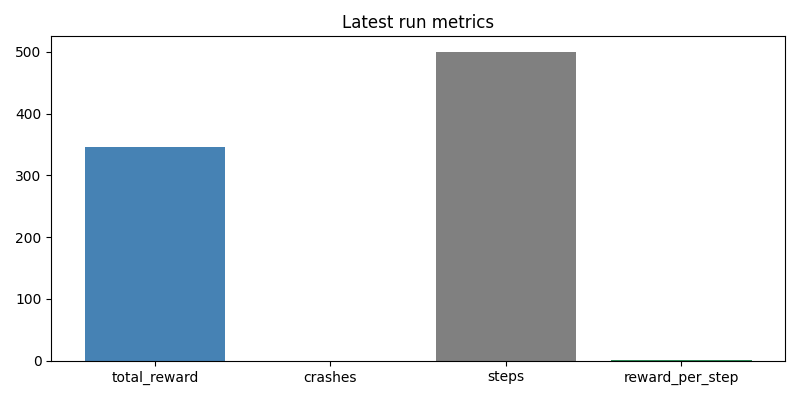
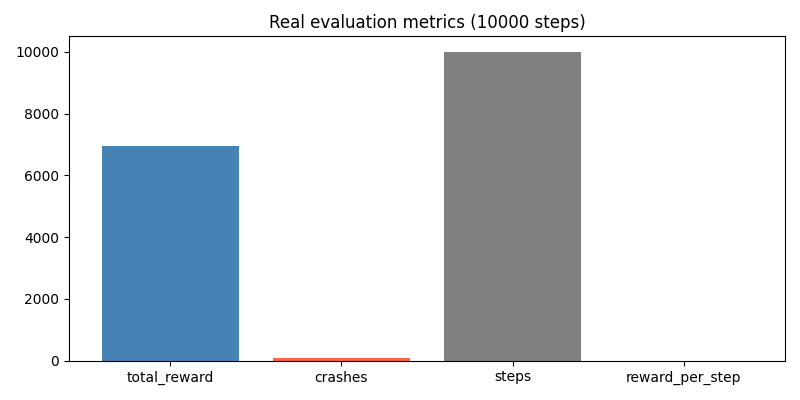
first time

diff --git a/evaluate.py b/evaluate.py
@@ -2,30 +2,37 @@ import gymnasium as gym
 import highway_env
 import pygame
 import json
+import time
 import matplotlib.pyplot as plt
 from stable_baselines3 import PPO
 
-# --- Load trained model ---
+ENV_CONFIG = {
+    "observation": {
+        "type": "Kinematics",
+        "vehicles_count": 10,
+    },
+    "vehicles_count": 10,
+    "lanes_count": 2,
+    "simulation_frequency": 5,
+    "policy_frequency": 1,
+    "duration": 20,
+}
+
 model = PPO.load("agents/ppo_highway")
 print("Model loaded. Replaying 10,000 step evaluation visually...")
 
-# --- Load real metrics from train.py ---
+
 with open("results/latest.json") as f:
     metrics = json.load(f)
 print(f"Real data: {metrics}")
 
-# --- Setup pygame ---
 pygame.init()
-env = gym.make("highway-v0", render_mode="human", config={
-    "simulation_frequency": 15,
-    "policy_frequency": 5
-})
+env = gym.make("highway-v0", render_mode="human", config=ENV_CONFIG)
 obs, _ = env.reset()
 steps = 0
 running = True
 clock = pygame.time.Clock()
 
-# --- Visual replay of the same 10,000 steps ---
 while running and steps < 10_000:
     for event in pygame.event.get():
         if event.type == pygame.QUIT:
@@ -36,18 +43,20 @@ while running and steps < 10_000:
     obs, _, done, truncated, _ = env.step(action)
     steps += 1
 
+    env.render()                 
+    pygame.event.pump()          
     pygame.display.flip()
-    clock.tick(60)
+    clock.tick(30)              
 
     if done or truncated:
         obs, _ = env.reset()
 
-# --- Cleanup ---
+
 env.close()
 pygame.quit()
 print(f"Visual replay finished at step {steps}.")
 
-# --- Plot the real data from train.py ---
+
 labels = list(metrics.keys())
 values = list(metrics.values())
 plt.figure(figsize=(8, 4))

diff --git a/train.py b/train.py
@@ -3,22 +3,26 @@ import highway_env
 import json, os
 from stable_baselines3 import PPO
 
-# --- Setup ---
-env = gym.make("highway-v0", render_mode=None, config={
+ENV_CONFIG = {
     "observation": {
         "type": "Kinematics",
-        "vehicles_count": 5, 
-    }
-})
+        "vehicles_count": 10,
+    },
+    "vehicles_count": 10,
+    "lanes_count": 2,
+    "simulation_frequency": 5,
+    "policy_frequency": 1,
+    "duration": 20,
+}
+
+env = gym.make("highway-v0", render_mode=None, config=ENV_CONFIG)
 model = PPO("MlpPolicy", env, verbose=1, tensorboard_log="./logs/")
 
-# --- Training ---
 print("Training for 10,000 steps...")
 model.learn(total_timesteps=10_000)
 model.save("agents/ppo_highway")
 print("Model saved.")
 
-# --- Evaluate silently for 10,000 steps (real data) ---
 print("Evaluating for 10,000 steps...")
 obs, _ = env.reset()
 total_reward, crashes, steps = 0, 0, 0
@@ -34,7 +38,6 @@ while steps < 10_000:
 
 env.close()
 
-# --- Save real metrics ---
 os.makedirs("results", exist_ok=True)
 metrics = {
     "total_reward": round(total_reward, 2),

diff --git a/rewards/reward_fn.py b/rewards/reward_fn.py
@@ -1,24 +1,13 @@
 def compute_reward(obs, action, info):
-    """
-    Inputs:
-      obs    — numpy array of shape (vehicles, features)
-               features: [presence, x, y, vx, vy, cos_h, sin_h]
-      action — [steering, acceleration] for continuous action space
-      info   — dict with keys: speed, crashed, rewards, cost
-    Returns:
-      float reward
-    """
+
     reward = 0.0
 
-    # 1. Reward forward speed (normalized 0-1 by max speed)
     speed = info.get("speed", 0)
     reward += speed / 30.0 * 1.0
 
-    # 2. Hard penalty for crashing
     if info.get("crashed", False):
         reward -= 5.0
 
-    # 3. Small penalty for harsh steering
     reward -= abs(action[0]) * 0.1
 
     return reward